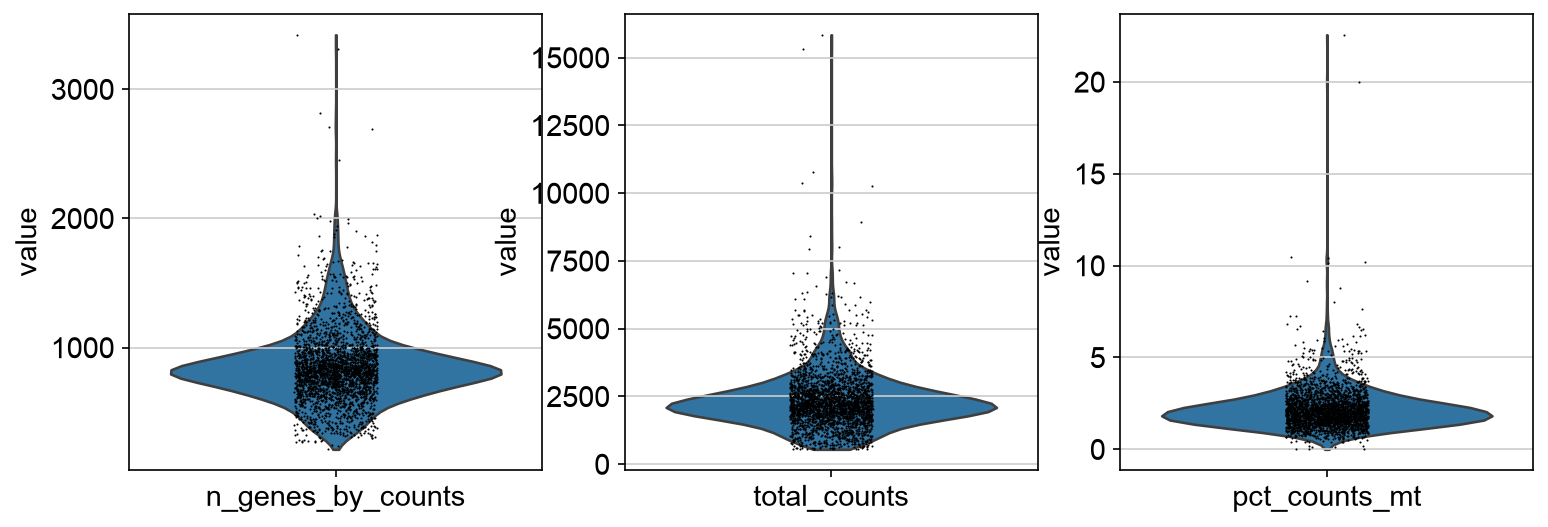
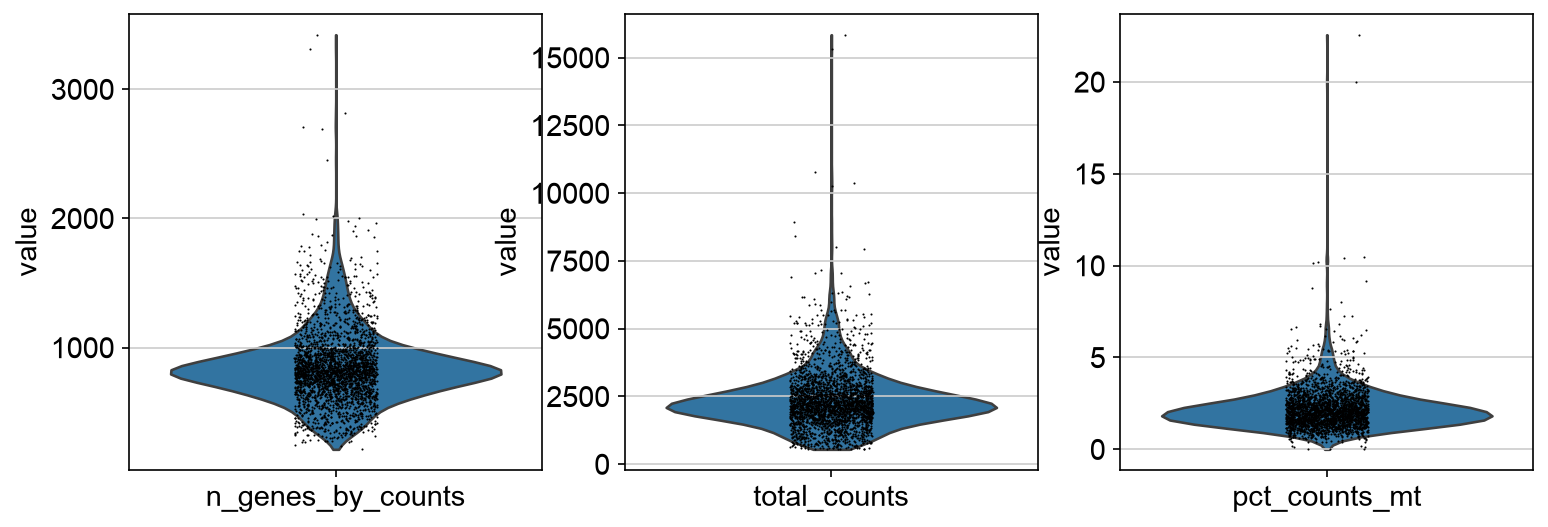
Add conclusion to notebook and project overview/conclusion to README

diff --git a/README.md b/README.md
@@ -4,6 +4,16 @@ An end-to-end, reproducible analysis of the 10x Genomics PBMC 3k dataset (2,700 
 
 ![Annotated UMAP](figures/11_umap_cell_types.png)
 
+## Project at a glance
+
+**Goal.** Show that I can take a raw 10x single-cell count matrix and produce a defensible, reproducible cell-type map of the immune system, with every analytical choice justified.
+
+**Exploration.** I ran the standard scverse workflow (QC, normalisation, HVGs, PCA, kNN graph, Leiden, UMAP, marker-based annotation) and tested the choices that change outcomes rather than accepting defaults: QC threshold stringency (3 vs 5 MADs), clustering resolution (0.5 vs 1.0), and marker-set specificity (monocyte subsets were first confused).
+
+**Result.** 2,700 cells became 2,541 high-quality cells in 8 clusters, annotated as 8 PBMC cell types with proportions that match a healthy donor (~56% T, ~24% monocytes, ~13% B, ~5.5% NK, ~1% DC). The annotation is supported by canonical markers and is auditable through a cluster-by-marker score table.
+
+**Skills shown.** Python, scanpy/AnnData, statistical QC, graph clustering, marker-based annotation, reproducible environments, and clear scientific communication.
+
 ## Contents
 
 | Path | What it is |
@@ -74,6 +84,10 @@ Composition (~56% T, ~24% monocytes, ~13% B, ~5.5% NK, ~1% DC) matches expectati
 - Naive vs memory CD4 T is a continuum; the boundary is a resolution choice, not a hard biological line.
 - Marker-based annotation is manual and does not scale to atlases; CellTypist or scANVI reference mapping would be the next step.
 - Single donor, single sample: no batch integration needed or demonstrated.
+
+## Conclusion
+
+A standard scverse workflow, with its key thresholds checked against the data rather than defaulted, recovers the expected major immune populations from a healthy PBMC sample. The most instructive findings were methodological: MAD thresholds must be sanity-checked against the metric's actual spread, clustering resolution decides whether T/NK and monocyte subsets are separated, and score-based annotation makes labelling errors visible and fixable. Next steps are doublet and ambient RNA handling, a CellTypist cross-check, and integration across donors.
 
 ## Why this matters for immunology and drug discovery
 
